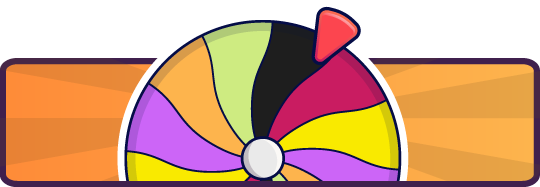
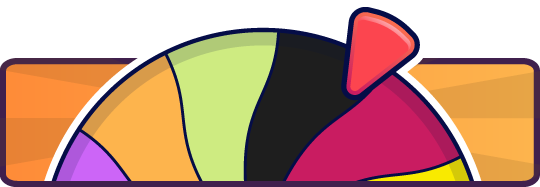
modal dinamicas

diff --git a/src/app/features/turn-resolution-modal/turn-resolution-modal.component.scss b/src/app/features/turn-resolution-modal/turn-resolution-modal.component.scss
@@ -6,105 +6,79 @@
   position: relative;
   display: flex;
   flex-direction: column;
+  gap: 1rem;
   align-items: center;
-  gap: 0.9rem;
-  width: min(100%, 25rem);
-  margin-inline: auto;
-  border: 3px solid #54266e;
-  border-radius: 1.5rem;
-  padding: 1.25rem;
-  background: #fff8ef;
-  color: #40204d;
-  text-align: center;
-  box-shadow: 0 0.6rem 1.5rem rgb(0 0 0 / 28%);
-}
+  overflow: visible;
+  padding: 0 1.2rem 1rem 1.2rem;
 
-.close-button {
-  position: absolute;
-  top: 0.5rem;
-  right: 0.65rem;
-  border: 0;
-  background: transparent;
-  color: #54266e;
-  font-size: 1.8rem;
-  line-height: 1;
-  cursor: pointer;
+  svg {
+    position: absolute;
+    bottom: 0;
+    z-index: -1;
+    width: 100%;
+    overflow: visible;
+
+    path {
+      fill: white;
+      stroke: #0078b6;
+      stroke-width: 5px;
+    }
+  }
 }
 
 .player {
-  display: flex;
-  flex-direction: column;
-  align-items: center;
-  gap: 0.25rem;
 
-  h2 {
-    margin: 0;
-    font-size: 1.25rem;
-  }
-}
-
-.activity {
-  display: grid;
-  grid-template-columns: 4.5rem 1fr;
-  align-items: center;
-  gap: 0.25rem 0.75rem;
-  width: 100%;
-  text-align: left;
-
-  h3 {
-    margin: 0;
-    font-size: 1.35rem;
+  img {
+    position: relative;
+    z-index: 1;
+    width: 9rem;
+    margin-top: -2rem;
   }
 
-  p {
-    grid-column: 1 / -1;
-    margin: 0.35rem 0 0;
-    font-size: 1.1rem;
-    line-height: 1.35;
-  }
 }
 
-.activity-card {
-  grid-row: span 2;
-  width: 4.5rem;
-  border-radius: 0.6rem;
-  box-shadow: 0 0.2rem 0.5rem rgb(0 0 0 / 18%);
-}
-
-.question {
-  margin: 0.25rem 0 0;
-  font-size: 1rem;
-  font-weight: 700;
+.textActivity{
+  text-align: center;
+  font-size: 1.5rem;
+  line-height: 1;
+  color: black;
 }
 
 .actions {
   display: flex;
   gap: 0.75rem;
   width: 100%;
-}
 
-.outcome {
-  flex: 1;
-  min-height: 2.8rem;
-  border: 2px solid #40204d;
-  border-radius: 999px;
-  color: #fff;
-  font: inherit;
-  font-weight: 700;
-  cursor: pointer;
+  .btnPrimary {
+    height: 3.3rem;
+    border-width: 3px;
 
-  &--no {
-    background: #d4146d;
-  }
+    h4 {
+      top: 0.4rem;
+      font-size: 1.8rem;
 
-  &--yes {
-    background: #198754;
-  }
-}
+    }
 
-@media (max-height: 700px) {
-  .turn-modal {
-    gap: 0.5rem;
-    padding: 0.8rem;
+
+    &.yes {
+
+      h4 {
+        -webkit-text-stroke: 0.4rem #40204D;
+        text-shadow: 0.2rem 0.2rem 0 #40204D,
+          0.3rem 0.2rem 0 #40204D;
+      }
+    }
+
+    &.no {
+      background-color: #0091CF;
+      border-color: #002B3E;
+      box-shadow: inset 0 -6px 0 #0073A4;
+
+      h4 {
+        -webkit-text-stroke: 0.4rem #002B3E;
+        text-shadow: 0.2rem 0.2rem 0 #002B3E,
+          0.3rem 0.2rem 0 #002B3E;
+      }
+    }
   }
 }

diff --git a/src/app/features/turn-resolution-modal/turn-resolution-modal.component.html b/src/app/features/turn-resolution-modal/turn-resolution-modal.component.html
@@ -1,23 +1,29 @@
 <section class="turn-modal" aria-labelledby="activity-title">
-  <button type="button" class="close-button" aria-label="Cerrar" (click)="close()">×</button>
+  <svg viewBox="0 0 335 248" fill="none" xmlns="http://www.w3.org/2000/svg">
+    <path
+      d="M167.5 248C104.724 248 58.237 245.512 33.0615 240.804C21.5875 238.656 14.8172 236.13 12.8588 233.271C11.0403 232.234 8.51541 228.775 6.18985 218.588C2.08077 200.582 0 168.76 0 124C0 79.2401 2.08426 47.4179 6.18985 29.4157C8.51541 19.2287 11.0403 15.7699 12.8588 14.733C14.8172 11.8738 21.5875 9.34739 33.0615 7.20013C58.237 2.48774 104.727 0 167.5 0C230.273 0 276.763 2.48774 301.939 7.19626C313.412 9.34353 320.183 11.87 322.141 14.7291C323.96 15.766 326.485 19.2248 328.81 29.4118C332.919 47.4179 335 79.2401 335 123.996C335 168.752 332.916 200.578 328.81 218.584C326.485 228.771 323.96 232.23 322.141 233.267C320.183 236.126 313.412 238.653 301.939 240.8C276.767 245.508 230.276 247.996 167.5 247.996V248Z" />
+  </svg>
 
   <div class="player">
     <rive-player [src]="player.avatar.src" [artboard]="player.avatar.artboard"
       [stateMachine]="player.avatar.stateMachine" [gender]="player.gender" [showGender]="false" [isIdle]="true"
-      size="medium">
+      size="large">
     </rive-player>
-    <h2>{{ player.name }}</h2>
+    <img src="../../../assets/Juegos/Dinamicas/logoBebe.png" alt="">
   </div>
 
-  <article class="activity">
-    <img class="activity-card" [src]="activity.image" [alt]="'Carta de ' + activity.category">
-    <h3 id="activity-title">{{ activity.category }}</h3>
-    <p>{{ activity.prompt }}</p>
-  </article>
+  <p class="textActivity">{{ activity.prompt }}</p>
 
-  <p class="question">¿Cumplió la actividad?</p>
   <div class="actions">
-    <button type="button" class="outcome outcome--no" (click)="resolveTurn(false)">No cumplió</button>
-    <button type="button" class="outcome outcome--yes" (click)="resolveTurn(true)">Cumplió</button>
+    <button type="button" class="btnPrimary yes" (click)="resolveTurn(false)">
+      <h4>
+        ¡Lo hice!
+      </h4>
+    </button>
+    <button type="button" class="btnPrimary no" (click)="resolveTurn(true)">
+      <h4>
+        Bebí
+      </h4>
+    </button>
   </div>
 </section>

diff --git a/src/app/pages/game/game.page.html b/src/app/pages/game/game.page.html
@@ -27,7 +27,6 @@
         (click)="onDeckClick()">
         @if (revealedActivity(); as activity) {
         <img class="revealed-card" [src]="activity.image" [alt]="'Carta de ' + activity.category">
-        <span class="revealed-prompt">{{ activity.prompt }}</span>
         } @else {
         @for (card of deckCards; track $index) {
         <img class="deck-card" src="assets/Juegos/Baraja/Reverso.png" alt="">

diff --git a/src/global.scss b/src/global.scss
@@ -92,11 +92,13 @@ button {
 	--height: auto;
 	--background: transparent;
 	--box-shadow: none;
-	--backdrop-opacity: 0.6;
+	--backdrop-opacity: 0.7;
+	--overflow: visible;
 
 	&::part(content) {
 		background: transparent;
 		box-shadow: none;
+		overflow: visible;
 	}
 
 	.ion-page {
